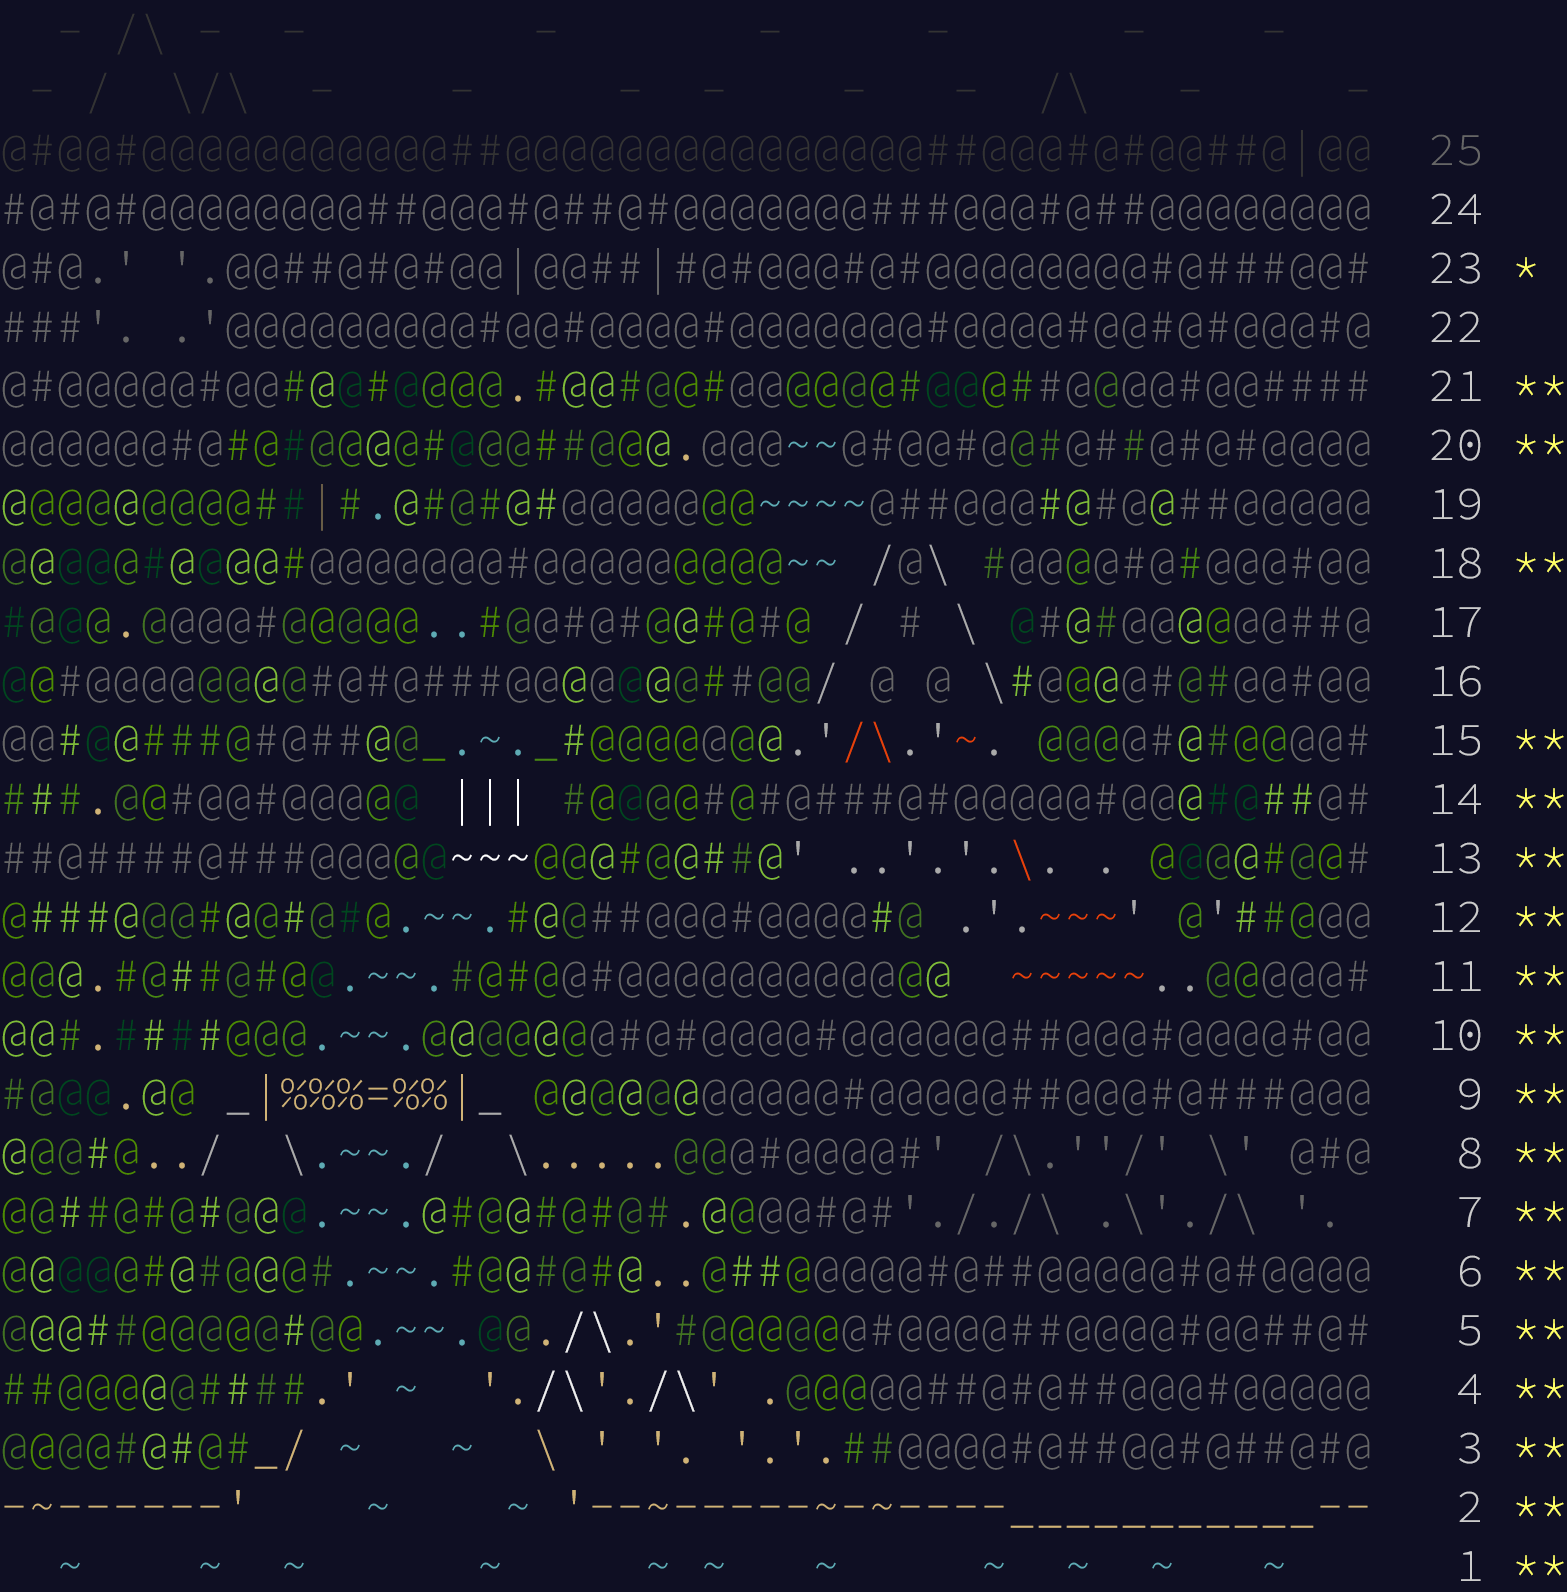
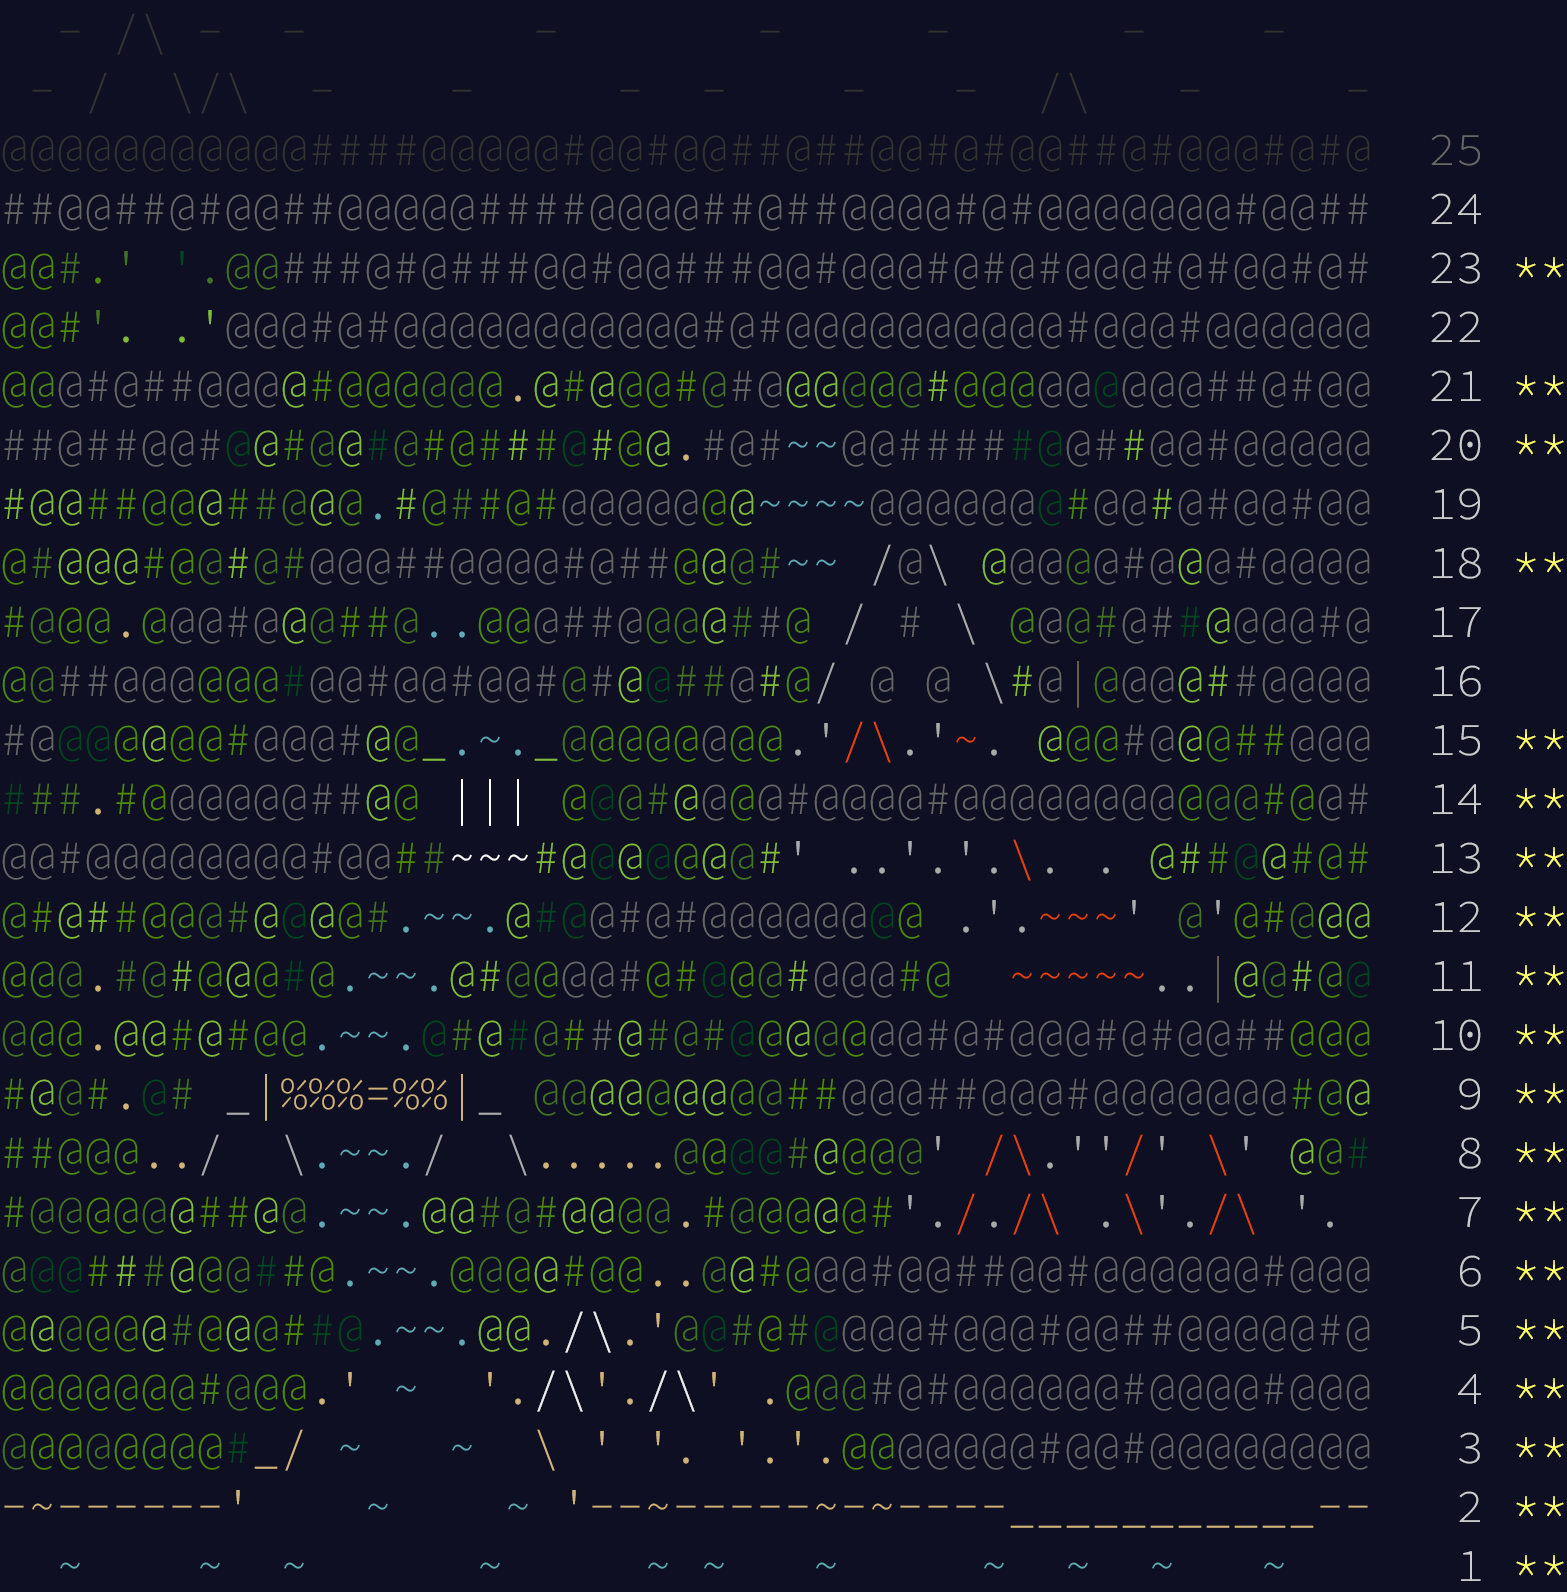
rust: 2022.23, part 2: solve

diff --git a/2022/rust/src/aoc23.rs b/2022/rust/src/aoc23.rs
@@ -55,8 +55,14 @@ where
         Some(count_empty_tiles(&elves))
     }
 
-    fn part2(_input: I) -> Option<Number> {
-        todo!()
+    fn part2(input: I) -> Option<Number> {
+        let mut elves = parse_elves(input)?;
+        for round in 0.. {
+            if !spread_out(&mut elves, round) {
+                return Some(round + 1);
+            }
+        }
+        unreachable!()
     }
 }
 
@@ -80,7 +86,7 @@ where
     Some(elves)
 }
 
-fn spread_out(elves: &mut HashSet<Elf>, round: usize) {
+fn spread_out(elves: &mut HashSet<Elf>, round: usize) -> bool {
     let mut propositions = HashMap::<Elf, Vec<_>>::new();
     for elf in elves.iter().filter(|elf| has_neighbor(elves, elf)) {
         for direction in (0..DIRECTIONS.len())
@@ -94,12 +100,15 @@ fn spread_out(elves: &mut HashSet<Elf>, round: usize) {
             }
         }
     }
+    let mut positions_changed = false;
     for (proposition, candidates) in propositions {
         if candidates.len() == 1 {
             elves.remove(&candidates[0]);
             elves.insert(proposition);
+            positions_changed = true;
         }
     }
+    positions_changed
 }
 
 fn has_neighbor(elves: &HashSet<Elf>, elf: &Elf) -> bool {

diff --git a/2022/README.md b/2022/README.md
@@ -2,31 +2,31 @@
 ```
   - /\ -  -        -       -     -      -    -          
  - /  \/\  -    -     -  -    -   -  /\   -     -       
-@#@@#@@@@@@@@@@@##@@@@@@@@@@@@@@@##@@@#@#@@##@|@@  25
-#@#@#@@@@@@@@##@@@#@##@#@@@@@@@###@@@#@##@@@@@@@@  24
-@#@.' '.@@##@#@#@@|@@##|#@#@@@#@#@@@@@@@@#@###@@#  23 *
-###'. .'@@@@@@@@@#@@#@@@@#@@@@@@@#@@@@#@@#@#@@@#@  22
-@#@@@@@#@@#@@#@@@@.#@@#@@#@@@@@@#@@@##@@@@#@@####  21 **
-@@@@@@#@#@#@@@@#@@@##@@@.@@@~~@#@@#@@#@##@#@#@@@@  20 **
-@@@@@@@@@##|#.@#@#@#@@@@@@@~~~~@##@@@#@#@@##@@@@@  19
-@@@@@#@@@@#@@@@@@@#@@@@@@@@@~~ /@\ #@@@@#@#@@@#@@  18 **
-#@@@.@@@@#@@@@@..#@@#@#@@#@#@ / # \ @#@#@@@@@@##@  17
-@@#@@@@@@@@#@#@###@@@@@@@##@@/ @ @ \#@@@@#@#@@#@@  16
-@@#@@###@#@##@@_.~._#@@@@@@@.'/\.'~. @@@@#@#@@@@#  15 **
-###.@@#@@#@@@@@ ||| #@@@@#@#@###@#@@@@@#@@@#@##@#  14 **
-##@####@###@@@@@~~~@@@#@@##@' ..'.'.\. . @@@@#@@#  13 **
-@###@@@#@@#@#@.~~.#@@##@@@#@@@@#@ .'.~~~' @'##@@@  12 **
-@@@.#@##@#@@.~~.#@#@@#@@@@@@@@@@@@  ~~~~~..@@@@@#  11 **
-@@#.####@@@.~~.@@@@@@@#@#@@@@#@@@@@@##@@@#@@@@#@@  10 **
-#@@@.@@ _|%%%=%%|_ @@@@@@@@@@@#@@@@@##@@@#@###@@@   9 **
-@@@#@../  \.~~./  \.....@@@#@@@@#' /\.''/' \' @#@   8 **
-@@##@#@#@@@.~~.@#@@#@#@#.@@@@#@#'././\ .\'./\ '.    7 **
-@@@@@#@#@@@#.~~.#@@#@#@..@##@@@@@#@##@@@@@#@#@@@@   6 **
-@@@##@@@@@#@@.~~.@@./\.'#@@@@@@#@@@@##@@@@#@@##@#   5 **
-##@@@@@####.' ~  './\'./\' .@@@@@##@#@##@@@#@@@@@   4 **
-@@@@#@#@#_/ ~   ~  \ ' '. '.'.##@@@@#@##@@#@##@#@   3 **
+@@@@@@@@@@@####@@@@@#@@#@@##@##@@#@#@@##@#@@@#@#@  25
+##@@##@#@@##@@@@@####@@@@##@##@@@@#@#@@@@@@@#@@##  24
+@@#.' '.@@###@#@###@@#@@###@@#@@@#@#@#@@@#@#@@#@#  23 **
+@@#'. .'@@@#@#@@@@@@@@@@@#@#@@@@@@@@@@#@@@#@@@@@@  22
+@@@#@##@@@@#@@@@@@.@#@@@#@#@@@@@@#@@@@@@@@@##@#@@  21 **
+##@##@@#@@#@@#@#@###@#@@.#@#~~@@#####@@##@@#@@@@@  20 **
+#@@##@@@##@@@.#@##@#@@@@@@@~~~~@@@@@@@#@@#@#@@#@@  19
+@#@@@#@@#@#@@@##@@@@#@##@@@#~~ /@\ @@@@@#@@@#@@@@  18 **
+#@@@.@@@#@@@##@..@@@##@@@@##@ / # \ @@@#@##@@@@#@  17
+@@##@@@@@@#@@#@@#@@#@#@@##@#@/ @ @ \#@|@@@@##@@@@  16
+#@@@@@@@#@@@#@@_.~._@@@@@@@@.'/\.'~. @@@#@@@##@@@  15 **
+###.#@@@@@@##@@ ||| @@@#@@@@#@@@@#@@@@@@@@@@@#@@#  14 **
+@@#@@@@@@@@#@@##~~~#@@@@@@@#' ..'.'.\. . @##@@#@#  13 **
+@#@##@@@#@@@@#.~~.@#@@#@#@@@@@@@@ .'.~~~' @'@#@@@  12 **
+@@@.#@#@@@#@.~~.@#@@@@#@#@@@#@@@#@  ~~~~~..|@@#@@  11 **
+@@@.@@#@#@@.~~.@#@#@##@#@#@@@@@@@#@#@@@#@#@@##@@@  10 **
+#@@#.@# _|%%%=%%|_ @@@@@@@@@##@@@##@@@#@@@@@@@#@@   9 **
+##@@@../  \.~~./  \.....@@@@#@@@@' /\.''/' \' @@#   8 **
+#@@@@@@##@@.~~.@@#@#@@@@.#@@@@@#'././\ .\'./\ '.    7 **
+@@@###@@@##@.~~.@@@@#@@..@@#@@@#@@##@@#@@@@@@#@@@   6 **
+@@@@@@#@@@##@.~~.@@./\.'@@#@#@@@@#@@@#@@##@@@@@#@   5 **
+@@@@@@@#@@@.' ~  './\'./\' .@@@#@#@@@@@@#@@@@#@@@   4 **
+@@@@@@@@#_/ ~   ~  \ ' '. '.'.@@@@@@@#@@#@@@@@@@@   3 **
 -~------'    ~    ~ '--~-----~-~----___________--   2 **
   ~    ~  ~      ~     ~ ~   ~     ~  ~  ~   ~      1 **
 ```
 
-![Calendar after day 15, 18, 20, 21, and then 23, part 1](calendar.png)
+![Calendar after day 15, 18, 20, 21, and then 23](calendar.png)
